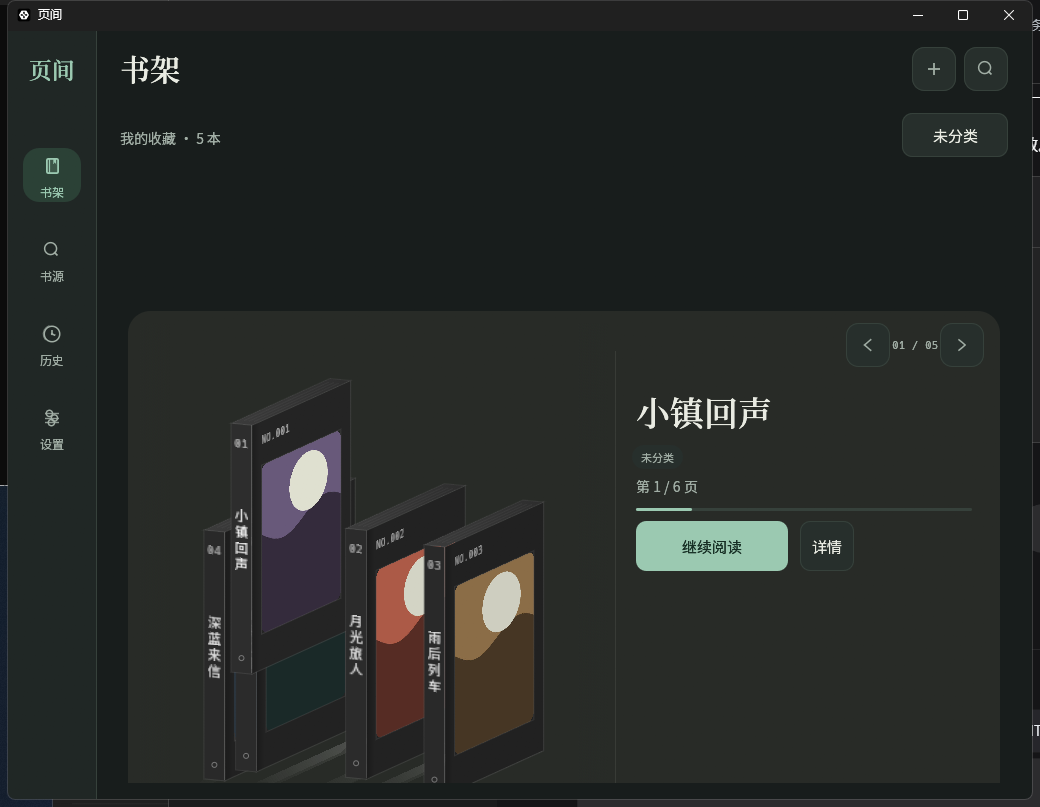
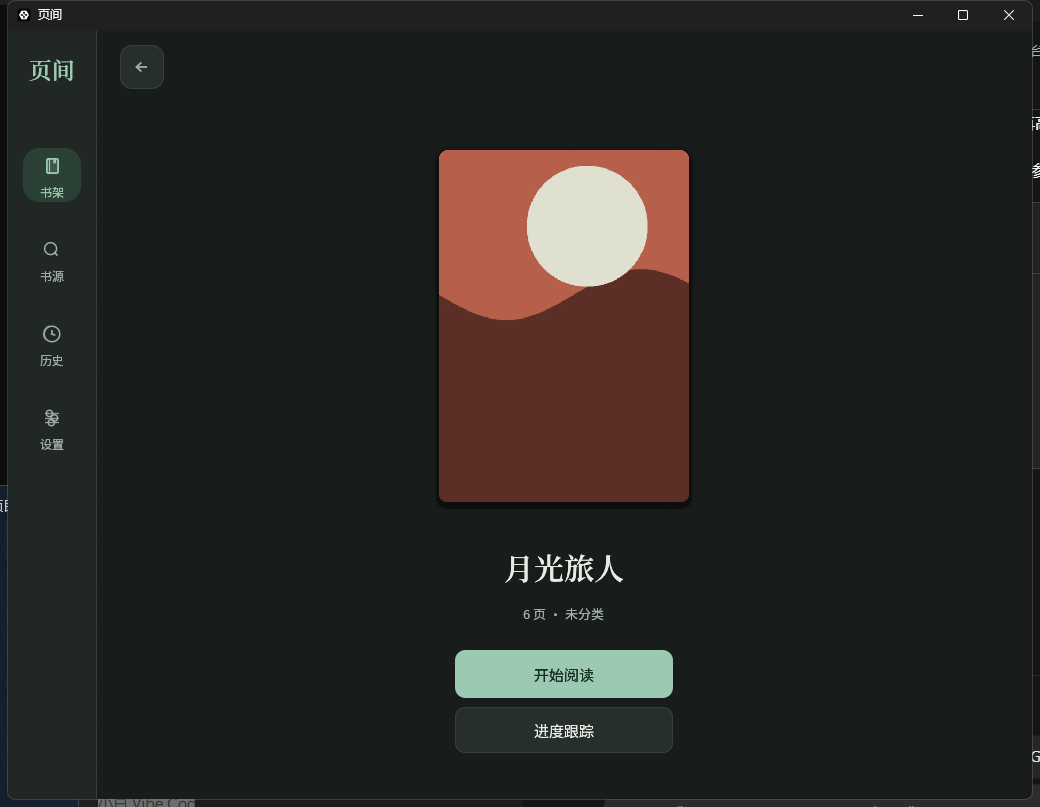
shelf: 右侧信息栏收窄到 22%，书架占宽 74%
用户反馈右半边多余。books 宽度 0.55→0.74，info 只保留书名/进度/两个按钮；同时给操作按钮 88pt 保底，避免 iPad mini 上 44pt 热区被压线。

diff --git a/rust-reader/src/ui.rs b/rust-reader/src/ui.rs
@@ -1989,9 +1989,10 @@ impl ReaderApp {
             vec2(width, height),
         );
         let books = if side_by_side {
+            // 右侧信息栏曾经占掉近一半宽度；书架是主体，把它压到 22%。
             Rect::from_min_size(
                 stage.min + vec2(12., 12.),
-                vec2(width * 0.55 - 12., height - 24.),
+                vec2(width * 0.74 - 12., height - 24.),
             )
         } else {
             Rect::from_min_size(stage.min + vec2(8., 30.), vec2(width - 16., 212.))
@@ -1999,10 +2000,10 @@ impl ReaderApp {
         let info = if side_by_side {
             Rect::from_min_max(
                 pos2(
-                    books.right() + 28.,
+                    books.right() + 20.,
                     stage.top() + if short_landscape { 14. } else { 76. },
                 ),
-                stage.max - vec2(28., 26.),
+                stage.max - vec2(20., 26.),
             )
         } else {
             Rect::from_min_max(
@@ -2847,8 +2848,8 @@ impl ReaderApp {
         if layout.side_by_side {
             ui.painter().line_segment(
                 [
-                    pos2(layout.info.left() - 20., layout.stage.top() + 40.),
-                    pos2(layout.info.left() - 20., layout.stage.bottom() - 40.),
+                    pos2(layout.info.left() - 10., layout.stage.top() + 40.),
+                    pos2(layout.info.left() - 10., layout.stage.bottom() - 40.),
                 ],
                 Stroke::new(1., palette.ink.gamma_multiply(0.08)),
             );
@@ -3087,8 +3088,9 @@ impl ReaderApp {
         }
         info_painter.galley(progress_pos, progress, muted);
         let detail_width = 30. * self.font_scale + 24.;
+        // 触控热区不得小于 44pt；右侧信息栏收窄后按钮也要保底 88pt 才不会压线。
         let action_width =
-            (84. * self.font_scale + 68.).min(layout.info.width() - detail_width - 12.);
+            (84. * self.font_scale + 68.).min(layout.info.width() - detail_width - 12.).max(88.);
         let open_rect = Rect::from_min_size(
             pos2(info.x + action_width + 12., action_y),
             vec2(detail_width, 50.),
